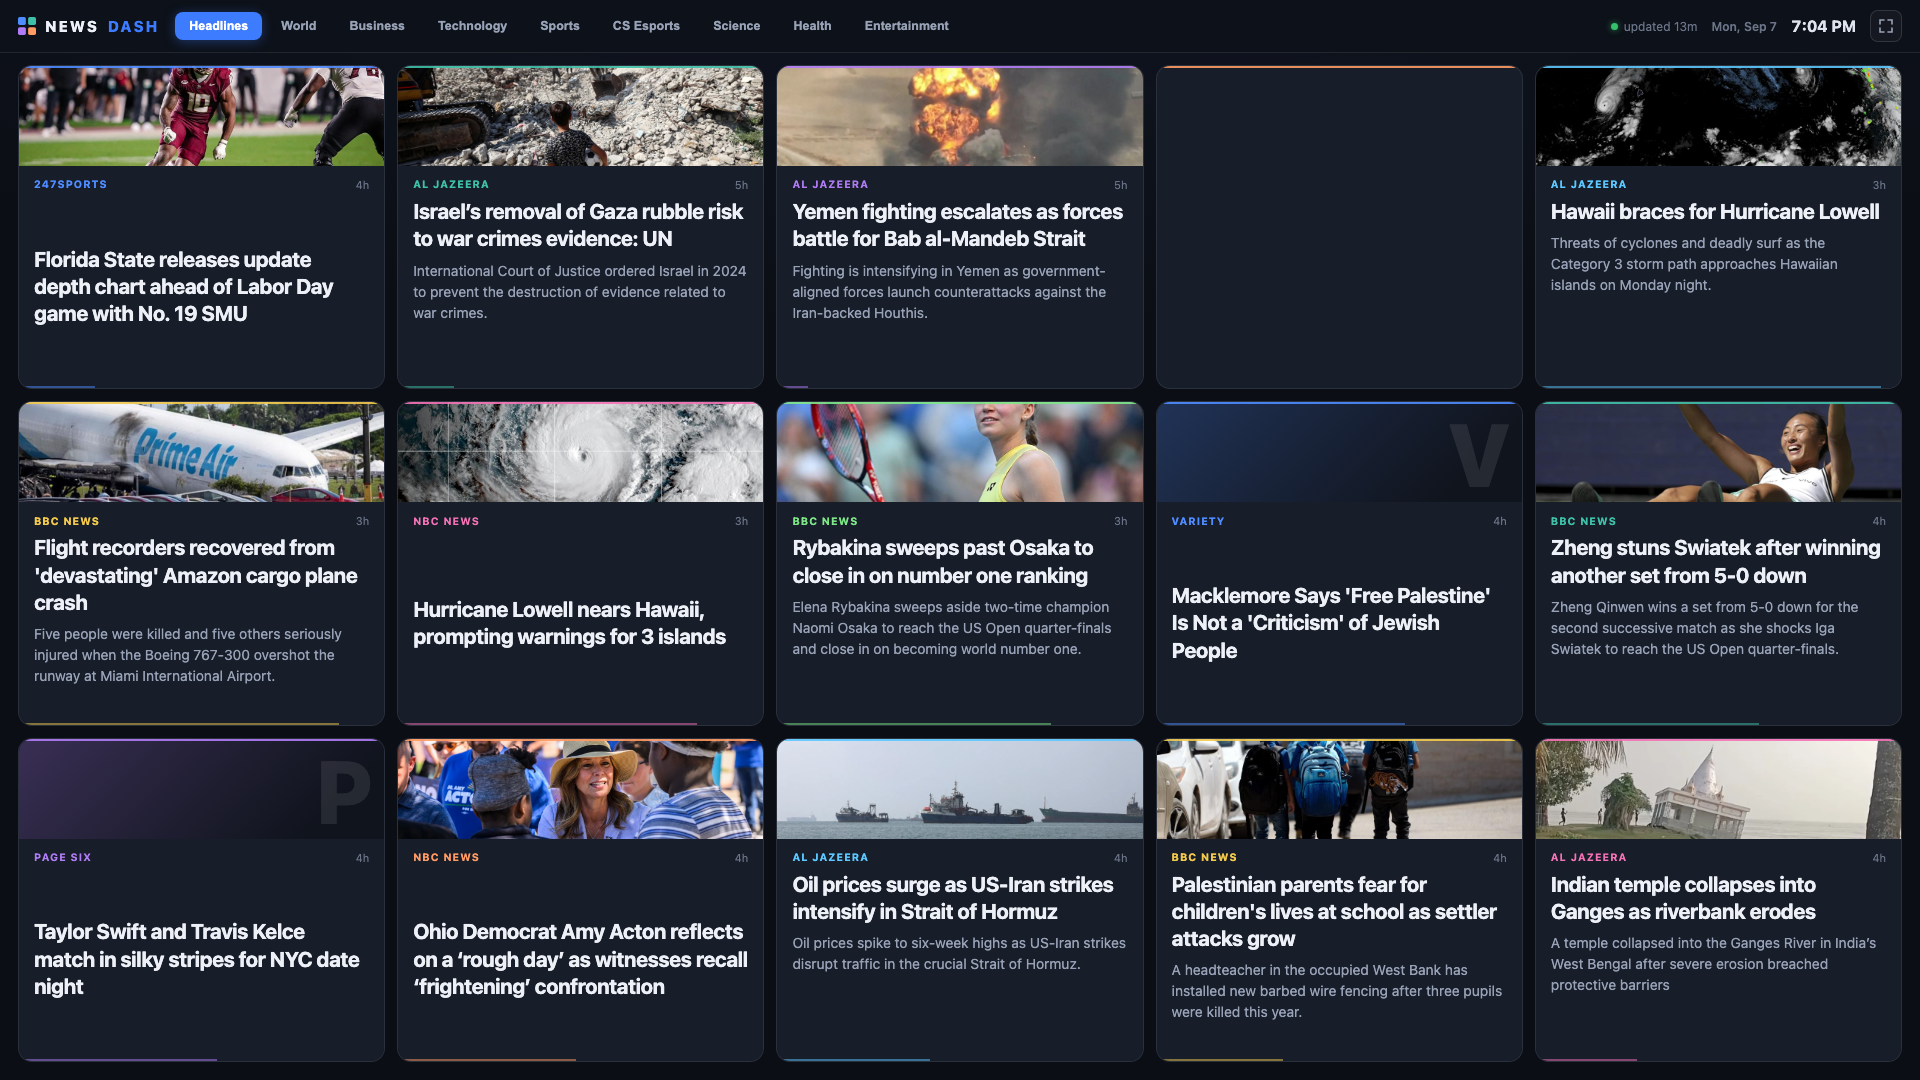
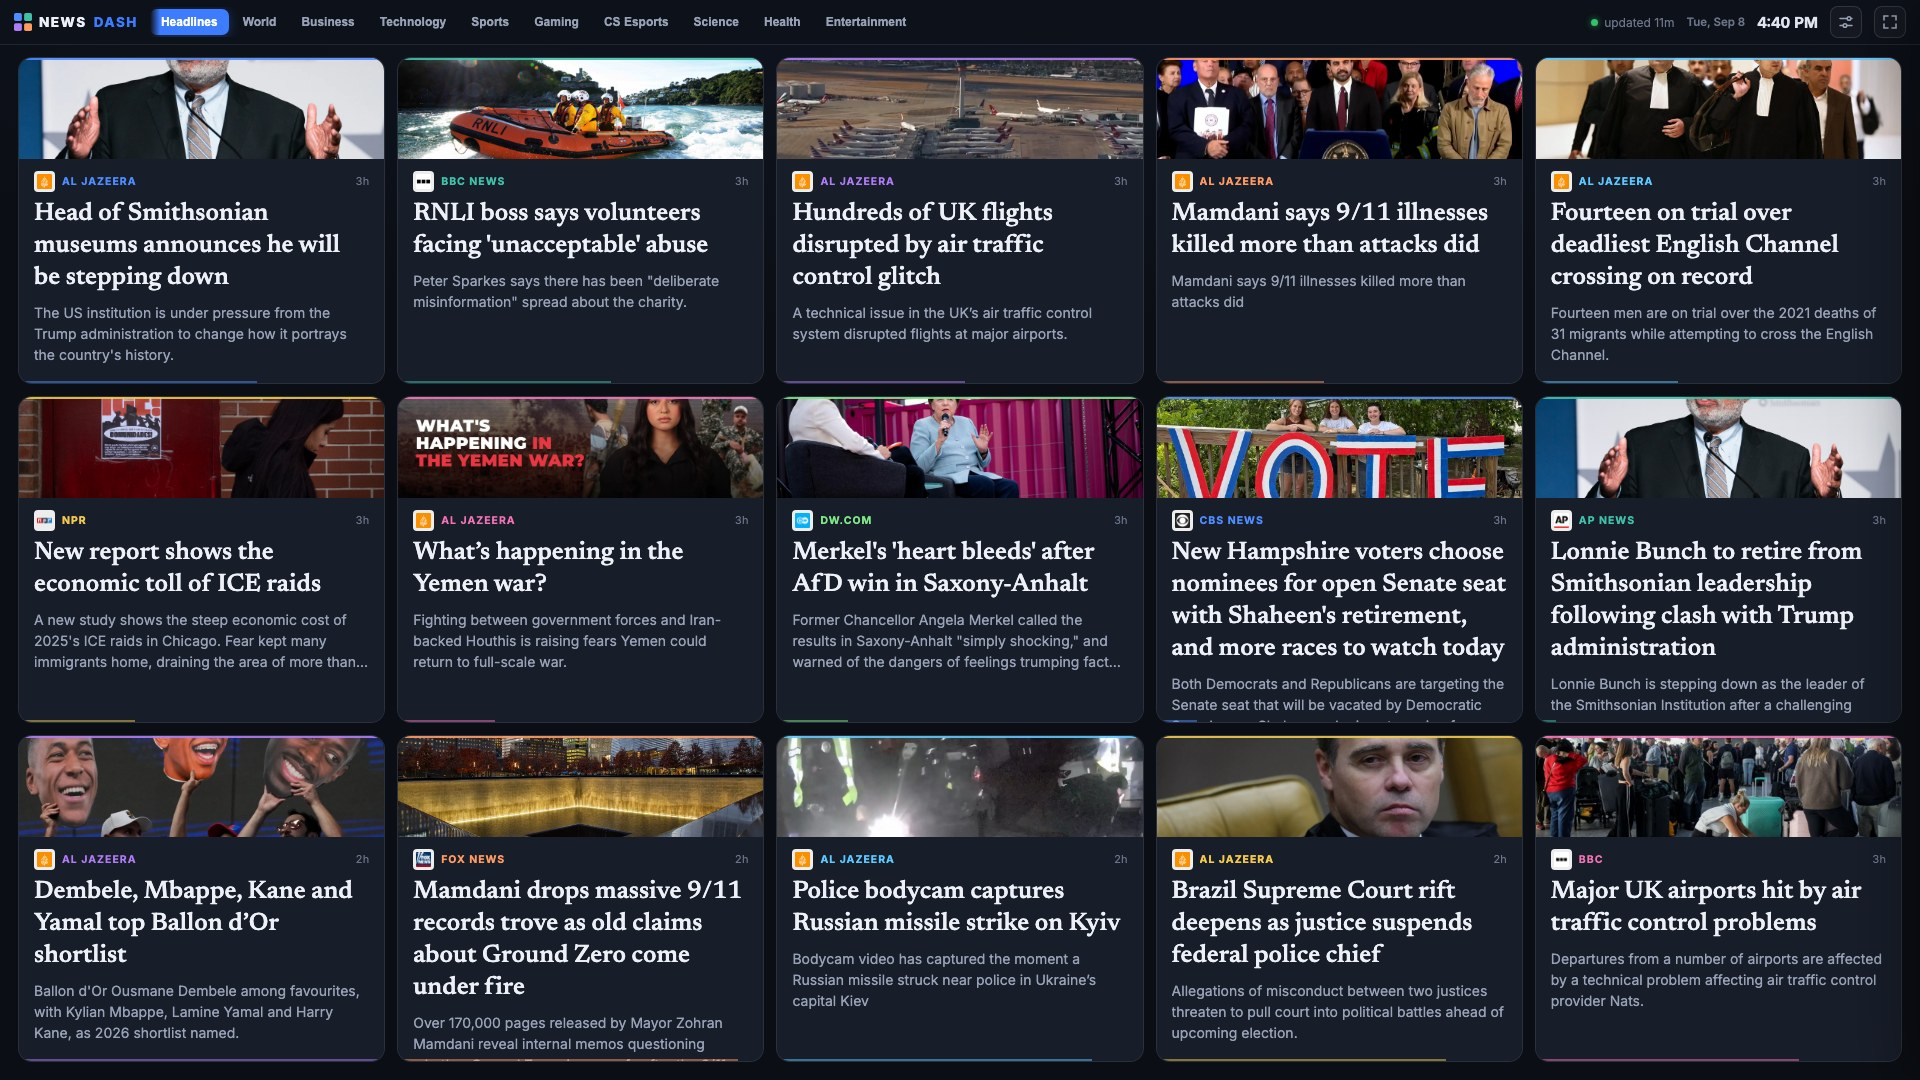
Rewrite README: architecture notes, design decisions, test docs, fresh screenshot; add MIT license

diff --git a/README.md b/README.md
@@ -2,104 +2,133 @@
 
 [![CI](https://github.com/AntonyPerez0/news-dashboard/actions/workflows/ci.yml/badge.svg)](https://github.com/AntonyPerez0/news-dashboard/actions/workflows/ci.yml)
 [![Deploy](https://github.com/AntonyPerez0/news-dashboard/actions/workflows/deploy.yml/badge.svg)](https://github.com/AntonyPerez0/news-dashboard/actions/workflows/deploy.yml)
+[![TypeScript](https://img.shields.io/badge/TypeScript-strict-3178C6?logo=typescript&logoColor=white)](https://www.typescriptlang.org/)
+[![React 18](https://img.shields.io/badge/React-18-61DAFB?logo=react&logoColor=white)](https://react.dev/)
+[![Tested](https://img.shields.io/badge/tests-26%20passing-3FB950)](#testing)
 
-An ambient, fullscreen news dashboard built for a second monitor — now in
-**React + TypeScript (Vite)**. Live headlines arrive as a grid of rich tiles
-that continuously fade out and cycle to the next story, so you can glance over
-the news without ever touching a scrollbar.
+A live news dashboard built for a second monitor. Ten categories of headlines
+cycle continuously through a grid of rich tiles — photos, excerpts, source
+logos — so the news stays glanceable without ever touching a scrollbar.
 
-![News Dashboard](docs/screenshot.jpg)
+**Live:** [antonyperez0.github.io/news-dashboard](https://antonyperez0.github.io/news-dashboard/)
 
-## Features
+![News Dashboard — live headline grid](docs/screenshot.jpg)
 
-- **10 categories** — Headlines, World, Business, Technology, Sports,
-  CS Esports, Gaming, Science, Health, Entertainment — aggregated from BBC,
-  NPR, Al Jazeera, The Verge, Ars Technica, TechCrunch, ESPN, Sky Sports,
-  HLTV, Polygon, IGN, GameSpot, Eurogamer, Phys.org, ScienceDaily, STAT,
-  Variety, MarketWatch, Yahoo Finance and Google News.
-- **Rich tiles** — each card shows the article's photo (with a styled source
-  monogram when a feed doesn't provide one), the headline and a short excerpt.
-  Hover a tile to pause it and click to open the story.
-- **Continuous tile cycling** — every tile swaps to the next headline every
-  18 seconds on a staggered timer, with a thin progress bar on each card
-  counting down to its next swap, so the whole board feels alive.
-- **No API keys** — everything comes from public RSS feeds, fetched
-  server-side (no CORS issues), deduped, and cached.
-- **Keyboard shortcuts** — `F` toggles fullscreen, `Space` pauses/resumes all
-  cycling, `1`–`9` and `0` switch categories.
-- **Self-healing** — a dead feed never breaks a category; the grid adapts to
-  any screen size or aspect ratio; connection status is shown in the header.
+## Why this project exists
+
+The interesting engineering problem here isn't displaying news — it's keeping
+a browser tab healthy and populated for weeks of unattended runtime, fed by
+inconsistent third-party data, with zero API keys and zero server costs.
+
+## Highlights
+
+- **React 18 + strict TypeScript** — the whole frontend is typed end-to-end,
+  including the data layer that transparently switches between a live Express
+  API and pre-built static snapshots
+- **Heartbeat tile engine** — every tile's swap is a timestamp comparison on a
+  single 250 ms heartbeat, so swaps, hover-pauses, countdown bars and
+  stuck-state healing are pure functions of time; a throttled background tab
+  can never permanently stall one
+- **Photo & excerpt pipeline** — most RSS feeds ship no image or summary, so
+  each story falls back to scraping the article's `og:image` /
+  `og:description` / JSON-LD metadata — after resolving Google News gateway
+  links back to real publisher URLs. Coverage: ~90 % photos, ~90 % excerpts;
+  scraper-blocking publishers (WSJ, Reuters) degrade to styled monograms
+- **Self-healing data layer** — `Promise.allSettled` per feed means one dead
+  outlet never takes down a category; stale-while-revalidate caching with
+  negative-result backoff keeps upstream feeds unharmed during outages
+- **10 categories, 20+ feeds** — Headlines, World, Business, Technology,
+  Sports, CS Esports, Gaming, Science, Health, Entertainment, aggregated from
+  BBC, NPR, Al Jazeera, The Verge, Ars Technica, ESPN, HLTV, Polygon, IGN,
+  GameSpot, Eurogamer and more
+- **Quality gates** — 26 Vitest unit tests over the data pipeline, strict
+  `tsc` typecheck, both wired into CI on every push
+
+## Testing
+
+The test suite targets the parts where real data bites: Google News title
+suffix stripping (doubled suffixes, hyphenated outlets like `WSB-TV`),
+XML sanitizing of unescaped `&`, betting-spam filtering, meta-tag extraction
+with fallback chains, grid layout math across aspect ratios, and deduping.
+
+```bash
+npm test        # 26 tests, no network required
+```
+
+CI runs typecheck + tests + production build on every push; the deploy
+workflow rebuilds and republishes the site with fresh data every 15 minutes.
+
+## Architecture
+
+```
+GitHub Action (every 15 min)                local: npm start
+       │ scripts/generate-data.js                  │ /api/news (10-min SWR cache)
+       ▼                                           ▼
+dist/data/<category>.json  ─── both served to ───┐
+                                                 ▼
+                      browser polls every 5 min (live API first,
+                      transparent static-snapshot fallback)
+```
+
+```
+src/                          server/
+  components/                   server.js      Express, SWR cache, API
+    Tile.tsx        tile engine   news.js      RSS fetch, dedupe, meta scrape
+    TileGrid.tsx    grid + heartbeat          feeds.js    feed registry
+    Header.tsx      nav, clock, status      scripts/
+    SettingsDrawer  speed, density            generate-data.js  static build
+  hooks/        useNews, useClock, useWindowSize
+  api.ts        live-API-first data layer
+  types.ts      shared contracts
+```
+
+**Design decisions worth calling out:**
+
+- **Timestamp-driven UI** — the vanilla predecessor used per-tile
+  `setTimeout` chains, which froze whenever a timer died. The React rewrite
+  stores each tile's `nextSwapAt` and compares it against a heartbeat, making
+  every visual state recoverable and testable
+- **API-first, static-fallback** — the same frontend runs from `npm start`
+  (freshest data) and GitHub Pages (pre-built snapshots), chosen at request
+  time by whether the API responds
+- **Enrichment in the background** — headlines respond in seconds; photo
+  scraping continues server-side and the client picks up enriched data on a
+  quick follow-up poll, so cold starts never block
 
 ## Run it
 
-**Option A — GitHub Pages (zero install):** the repo deploys itself to
-**https://antonyperez0.github.io/news-dashboard/** — a GitHub Action rebuilds
-the app and refetches all feeds every 15 minutes. Open it on your second
-monitor, press `F` for fullscreen, and let it run.
-
-**Option B — run locally (freshest data, 10-min server cache):**
-
 ```bash
 npm install
-npm run build        # typecheck + vite build → dist/
-npm start            # → http://localhost:3000 (serves dist/ + live API)
+npm run build     # strict typecheck + vite build
+npm start         # → http://localhost:3000 (API + built app)
 ```
 
-**Developing:**
+Developing:
 
 ```bash
-npm run dev          # vite dev server (proxies /api and /data to :3000)
-npm run dev:server   # express API with hot reload
-npm run build:data   # regenerate static news snapshots into dist/data
+npm run dev           # vite dev server (proxies API to :3000)
+npm run dev:server    # Express with hot reload
+npm run test:watch    # vitest watch mode
 ```
 
-Both modes share the same UI: when the local Node API isn't reachable (Pages),
-the frontend silently falls back to the static JSON snapshots in `dist/data/`.
+Keyboard: `F` fullscreen · `Space` pause/resume · `1`–`9`, `0` categories ·
+`Enter` open focused story
 
-## How it works
+## Adding feeds
 
-```
-GitHub Action (every 15 min)                 local: npm start
-       │ scripts/generate-data.js                   │ /api/news (10-min cache)
-       ▼                                            ▼
-dist/data/<category>.json  ──── both served to ────┐
-                                                   ▼
-                       browser polls every 5 min (API first, static fallback)
-```
-
-**Photo & excerpt pipeline:** most RSS feeds ship no image and no summary, so
-each story falls back to scraping its article page's `og:image` and
-`og:description` — Google News gateway links are resolved back to the real
-publisher URL first (via `google-news-url-decoder`). Coverage lands around
-85–91%; publishers that block scrapers (WSJ, Reuters…) show a styled source
-monogram instead.
-
-**React architecture:** tiles are driven by a single 250ms heartbeat that
-checks each tile's `nextSwapAt` timestamp — content swaps, hover-pauses,
-countdown bars and stuck-state healing are all pure functions of time, so a
-throttled timer can never permanently freeze a tile (the bug that killed the
-vanilla version).
-
-- `server/server.js` — Express server, stale-while-revalidate cache, API
-- `server/news.js` — RSS fetching/normalizing, og:image enrichment
-- `server/feeds.js` — the category → feed registry (edit to add sources)
-- `scripts/generate-data.js` — writes static news snapshots for Pages
-- `.github/workflows/deploy.yml` — build + deploy to Pages every 15 min
-- `src/` — the React dashboard (components, hooks, TypeScript types)
-
-## Adding your own feeds
-
-Add an entry to `server/feeds.js`:
+Registry lives in [`server/feeds.js`](server/feeds.js):
 
 ```js
-technology: {
-  label: 'Technology',
+gaming: {
+  label: 'Gaming',
   feeds: [
-    { url: 'https://example.com/rss.xml', name: 'Example' },
+    { url: 'https://www.polygon.com/rss/index.xml', name: 'Polygon' },
     // aggregate: true strips the " - Outlet" suffix Google News appends
     { url: 'https://news.google.com/rss/…', name: 'Google News', aggregate: true }
   ]
 }
 ```
 
-Commit and push — the deploy action picks it up within 15 minutes.
+## License
+
+MIT
